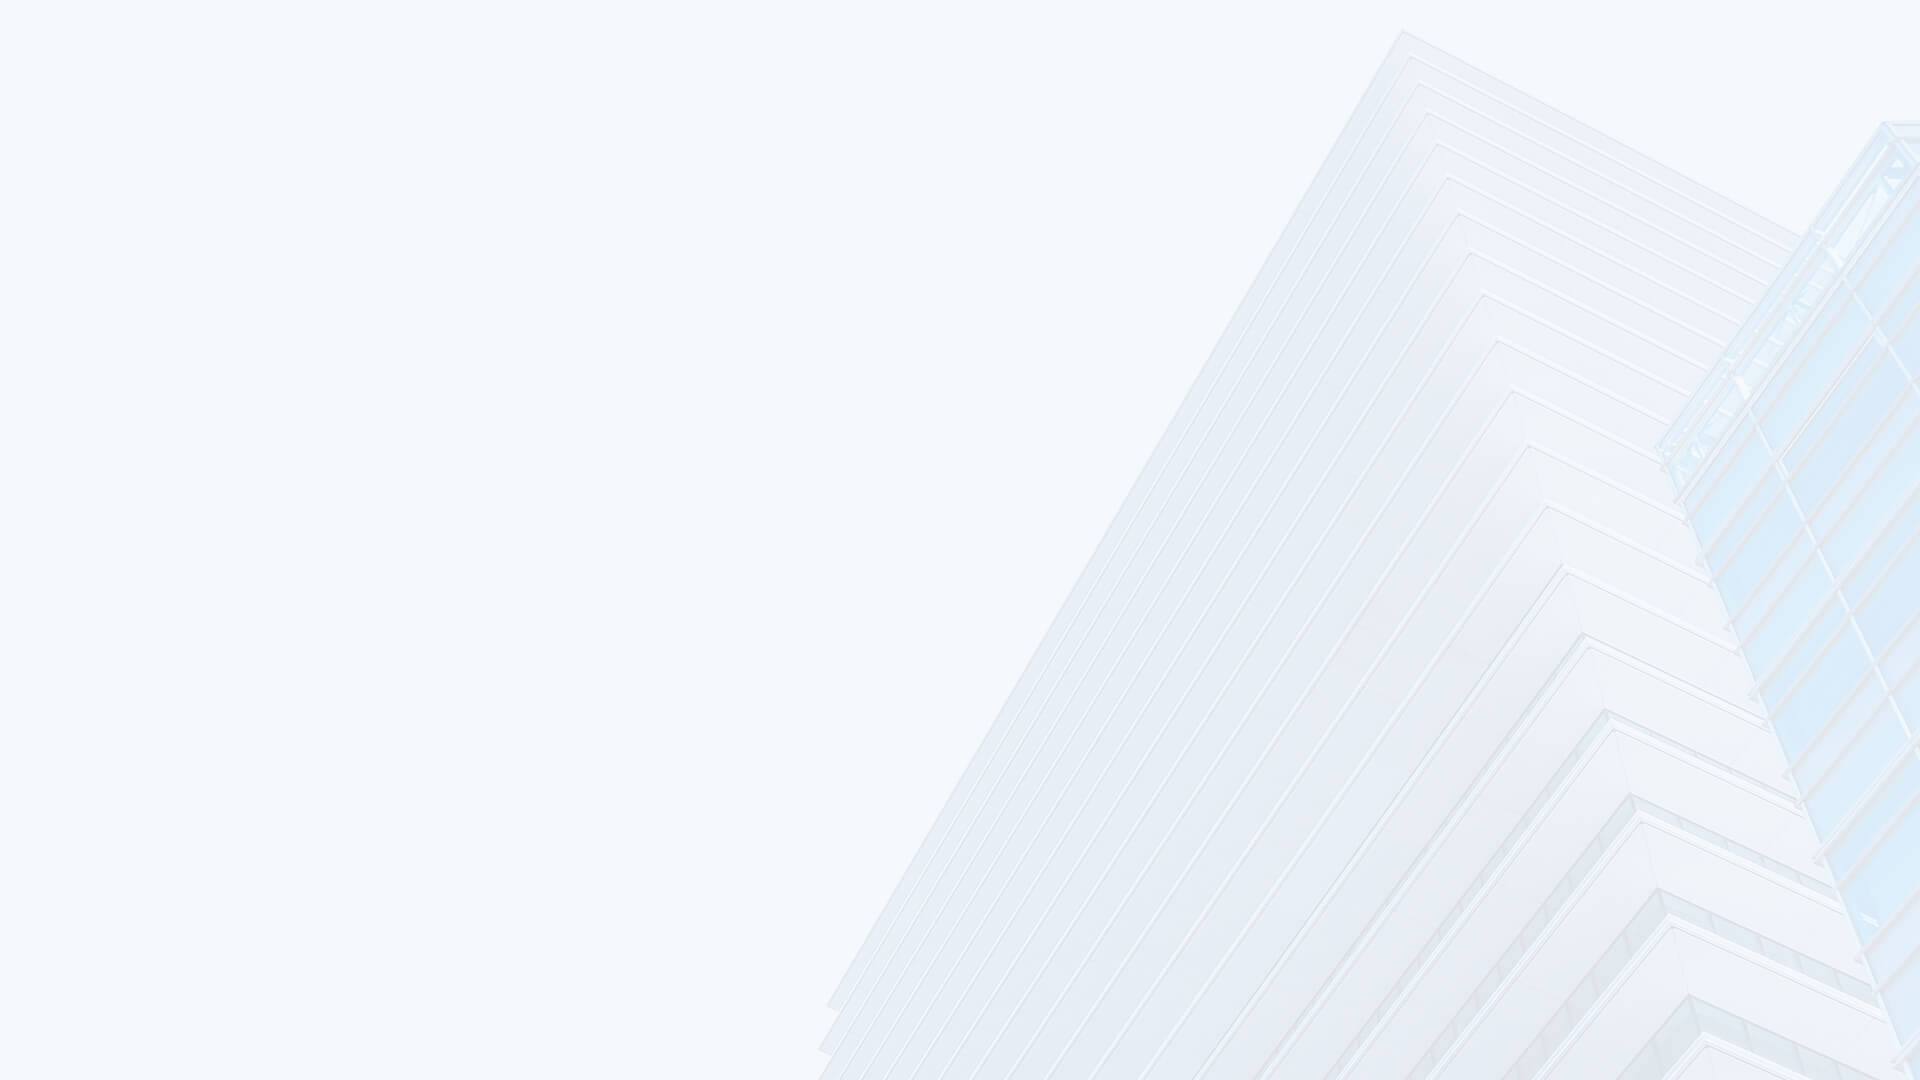
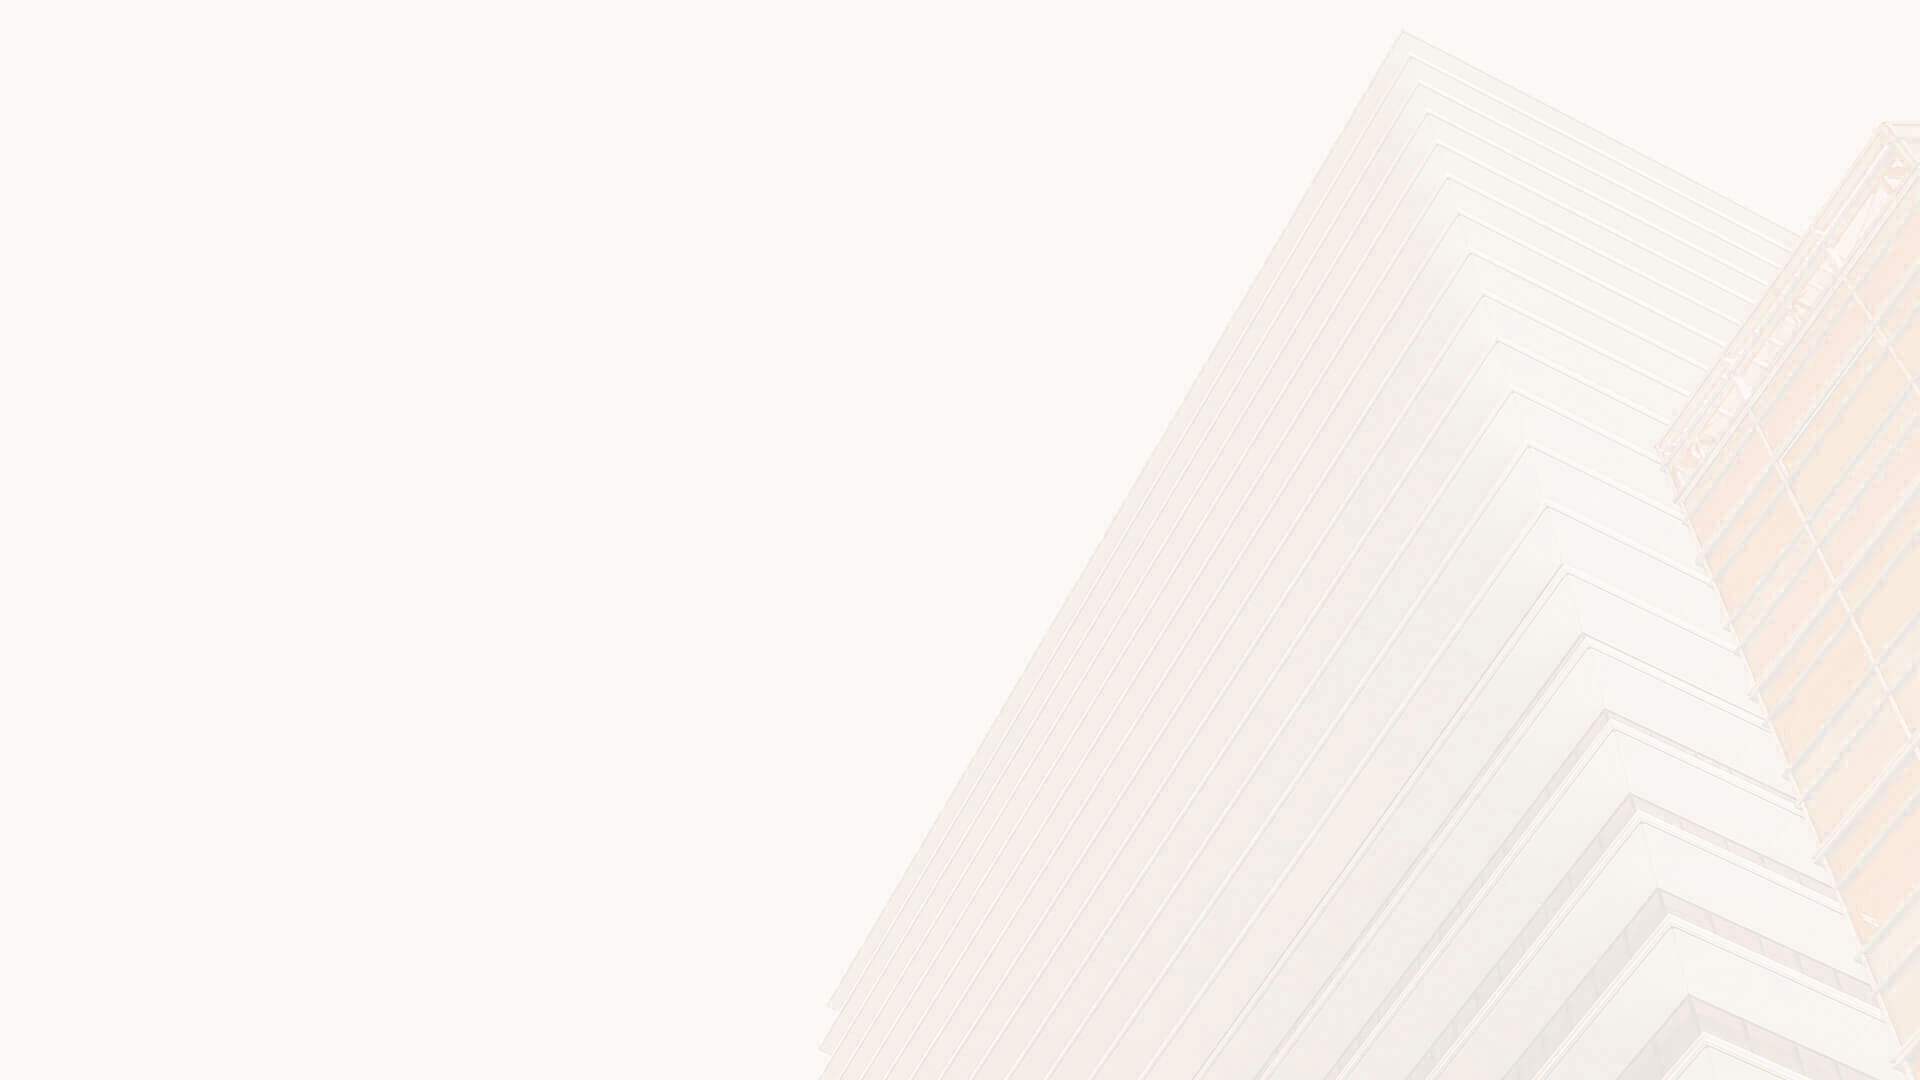
1117 push 템플릿 적용중,,

Changed region(s): [[0.875, 0.2139, 1.0, 0.8861], [0.9688, 0.1528, 1.0, 0.1833]]

diff --git a/app-server/src/main/java/com/ogong/pms/web/login.java b/app-server/src/main/java/com/ogong/pms/web/login.java
@@ -13,7 +13,7 @@ public class login {
 
     mv.addObject("pageTitle", "로그인 선택");
     mv.addObject("contentUrl", "login.jsp");
-    mv.setViewName("template1");
+    mv.setViewName("template2");
 
     return mv;
   } 
